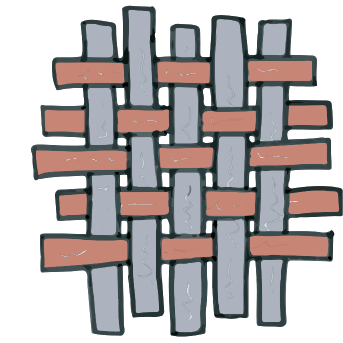
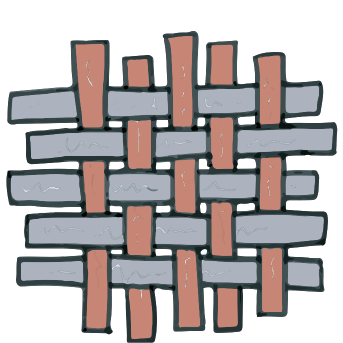
all category cards

diff --git a/_layouts/home.html b/_layouts/home.html
@@ -26,12 +26,15 @@ layout: default
         {% assign temp=site.categories | sort: 'sequence' %}
         {% assign categories=temp | where:"lang", page.lang %}
         {% for category in categories %}
-        <div class="mentor-card">
-            <div class="mentor-content sh-2 hv" style="background: #843067; border-color: #843067; border-style: solid">
-                <div class="category-title" style="font-family: Comfortaa, sans-serif; font-size: 1.5em; color: white; padding:12px">{{category.name}}</div>
-                <div class="category-image"></div>
-                <div class="category-description">{{category.description}}</div>
-
+        <div class="mentor-card" style="height: 376px;">
+            <div class="mentor-content sh-2 hv" style="background: {{category.color}}; border-color: {{category.color}}; border-style: solid;border-width: 5px; width: 255px">
+                <div class="category-title" style="color: #ffffff; font-family: Pasajero, sans-serif; font-size: 25px; font-style: normal; font-weight: normal; color: white; padding:12px">{{category.name}}</div>              
+                <div style="background:white">
+                    <div class="category-image" style="background-image: url({{category.image}}); height: 260px; background-position: center; background-size: cover; background-repeat: no-repeat; transform: scale(0.6,0.6);"></div>
+                </div>
+                <div style="background: white; padding: 17px">
+                    <div class="category-description" style="font-family: Calibri Light, sans-serif; font-size: 13px; font-style: normal; font-weight: 300; line-height: 1.5;">{{category.description}}</div>
+                </div>
                 <!--div class="mentor-image" style="background: white"></div-->
                 <!--div class="mentor-info">
                     <div class="mentor-name">{{category.name}}</div>

diff --git a/_categories/english/team_members.md b/_categories/english/team_members.md
@@ -2,8 +2,9 @@
 ref: team_members
 lang: en
 sequence: 2
-name: Team Members
+color: "#d8b43b"
+name: TEAM MEMBERS
 image: >-
-  https://raw.githubusercontent.com/not-dalia/qudwa/gh-pages/media/15515961160551551596113103_logo.jpg
-description: TODO
+  https://raw.githubusercontent.com/lapc1995/qudwa/gh-pages/media/2.png
+description: You are aiming to establish a <strong>core research</strong> team who are all going in the <strong>same direction</strong> based on a <strong>shared vision and values</strong>. Dedicate time exploring shared philosophies and values...
 ---

diff --git a/_categories/english/values.md b/_categories/english/values.md
@@ -2,8 +2,9 @@
 ref: values
 lang: en
 sequence: 1
-name: Values
+color: "#921f82"
+name: VALUES
 image: >-
-  https://raw.githubusercontent.com/not-dalia/qudwa/gh-pages/media/15515961160551551596113103_logo.jpg
-description: TODO
+  https://raw.githubusercontent.com/lapc1995/qudwa/gh-pages/media/1.png
+description: <strong>Values</strong> underpin everything you do. But do you share the <strong>same understanding</strong> of key values, and what do you think are the <strong>most important</strong> values for working within the context of your project?...
 ---

diff --git a/_categories/english/moral_qualities.md b/_categories/english/moral_qualities.md
@@ -1,0 +1,10 @@
+---
+ref: moral_qualities
+lang: en
+sequence: 3
+color: "#767756"
+name: MORAL QUALITIES
+image: >-
+  https://raw.githubusercontent.com/lapc1995/qudwa/gh-pages/media/3.png
+description: Within this section, we have developed a set of moral quality cards, inspired by the ‘<strong>Ethical Framework for the Counselling Professions</strong> (BACP)’, but developed to fit more a <strong>design research</strong> context...
+---

diff --git a/_categories/english/warp_&_weft.md b/_categories/english/warp_&_weft.md
@@ -1,0 +1,10 @@
+---
+ref: warp_&_weft
+lang: en
+sequence: 7
+color: "#5d7486"
+name: WARP & WEFT
+image: >-
+  https://raw.githubusercontent.com/lapc1995/qudwa/gh-pages/media/7.png
+description: If we are to move from a position of researching <strong>on</strong> people, to research <strong>with</strong> people, we need to develop methods to <strong>allow individuals to have a voice</strong> in the development of ethics protocols...
+---

diff --git a/_categories/english/critical_friends.md b/_categories/english/critical_friends.md
@@ -1,0 +1,10 @@
+---
+ref: critical_friends
+lang: en
+sequence: 4
+color: "#8966a9"
+name: Critical Friends
+image: >-
+  https://raw.githubusercontent.com/lapc1995/qudwa/gh-pages/media/4.png
+description: Setting up a <strong>steering group</strong> of people from different walks of life, skills and experience to give you <strong>honest, constructive feedback</strong> will help with possible ethical issues that might arise...
+---

diff --git a/_categories/english/provocations.md b/_categories/english/provocations.md
@@ -1,0 +1,10 @@
+---
+ref: provocations
+lang: en
+sequence: 6
+color: "#80483b"
+name: Provocations
+image: >-
+  https://raw.githubusercontent.com/lapc1995/qudwa/gh-pages/media/6.png
+description: These provocations start <strong>discussions</strong> around ethical <strong>concerns or issues</strong> arising from working with potentially vulnerable group of participants. Think about them as “wild cards” in games...
+---

diff --git a/_categories/english/consent.md b/_categories/english/consent.md
@@ -1,0 +1,10 @@
+---
+ref: consent
+lang: en
+sequence: 5
+color: "#cdcb36"
+name: Consent
+image: >-
+  https://raw.githubusercontent.com/lapc1995/qudwa/gh-pages/media/5.png
+description: It is essential that we are aware of a person’s <strong>capacity to understand</strong> what is been asked of them and to find ways to <strong>represent and convey information</strong> about the study as clearly as possible...
+---
